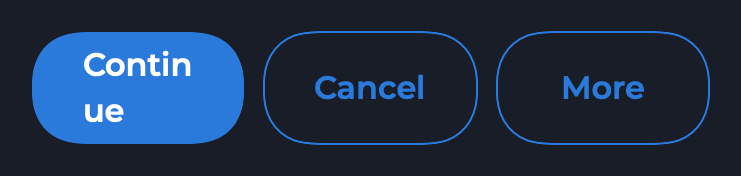
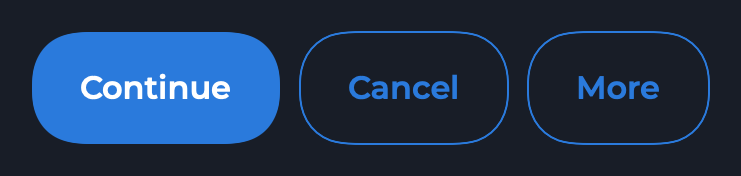
fix(button): label never wraps to a second line (.lineLimit(1))
A button's `Text(title)` had no line limit, so when the button was sized narrower
than its label (e.g. several default full-width buttons sharing one HStack), the
text wrapped — "Continue" rendered as "Contin / ue". Buttons now keep their label
on one line everywhere (truncating only if genuinely forced, which the layout
shouldn't do).

Also fixes the Button gallery shot to use `isContentWidth: true` — the correct
pattern for side-by-side buttons (matches the Demo's ButtonGroup usage) — so the
three styles render at content width on a single line. Regenerated Button.png /
Button-dark.png; no other component changed (their buttons already had room).

diff --git a/Tests/ThemeKitTests/ScreenshotGenerator.swift b/Tests/ThemeKitTests/ScreenshotGenerator.swift
@@ -164,9 +164,9 @@ final class ScreenshotGenerator: XCTestCase {
 
     private func molecules() {
         shot("Button", HStack(spacing: 10) {
-            PrimaryButton("Continue") {}
-            SecondaryButton("Cancel") {}
-            OutlineButton("More") {}
+            PrimaryButton("Continue", isContentWidth: true) {}
+            SecondaryButton("Cancel", isContentWidth: true) {}
+            OutlineButton("More", isContentWidth: true) {}
         })
         shot("ThemeButton", HStack(spacing: 10) {
             ThemeButton("Solid", color: .primary) {}

diff --git a/Sources/ThemeKit/Components/Molecules/Buttons/Buttons.swift b/Sources/ThemeKit/Components/Molecules/Buttons/Buttons.swift
@@ -81,6 +81,7 @@ private struct ThemedButton: View {
                     Text(title)
                         .textStyle(textStyle ?? size.textStyle)
                         .underline(style == .link)
+                        .lineLimit(1)              // a button label stays on one line (truncates, never wraps)
                         .transition(.opacity)
                 }
             }